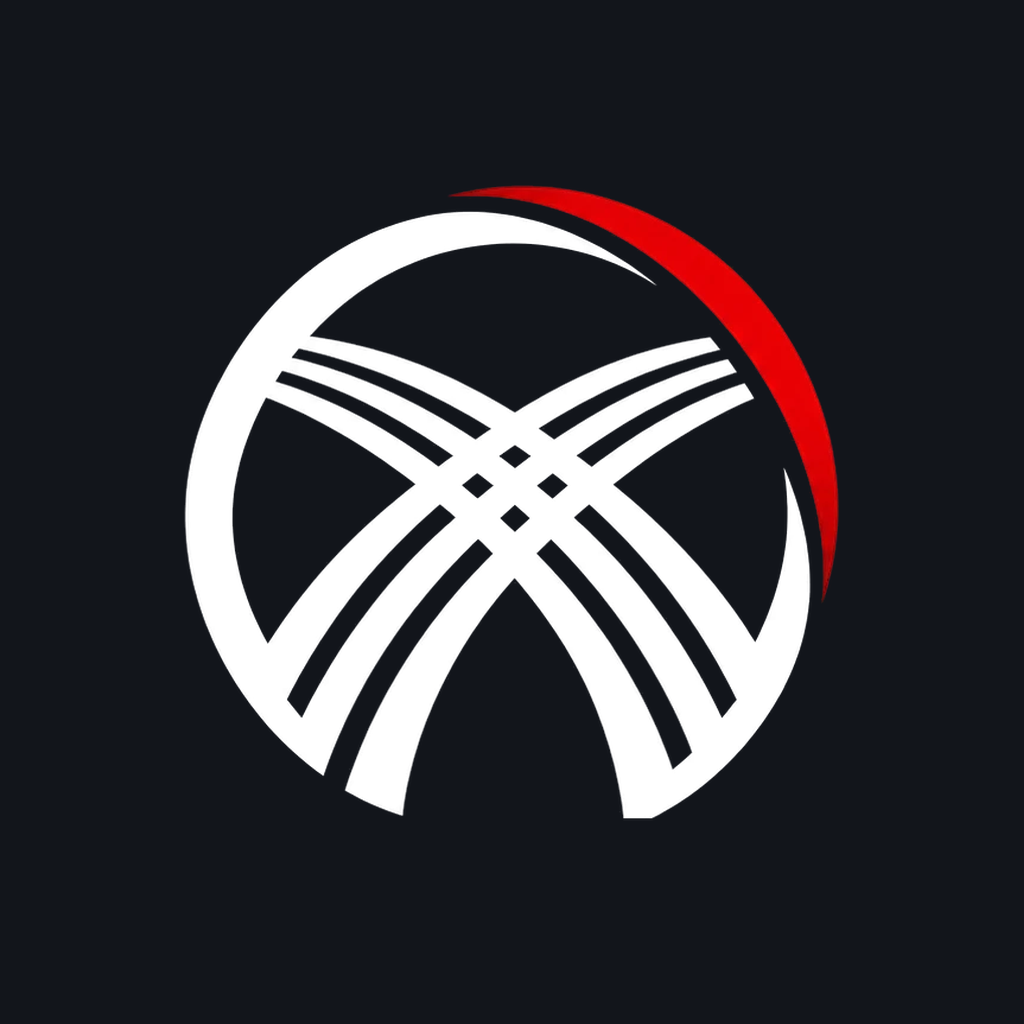
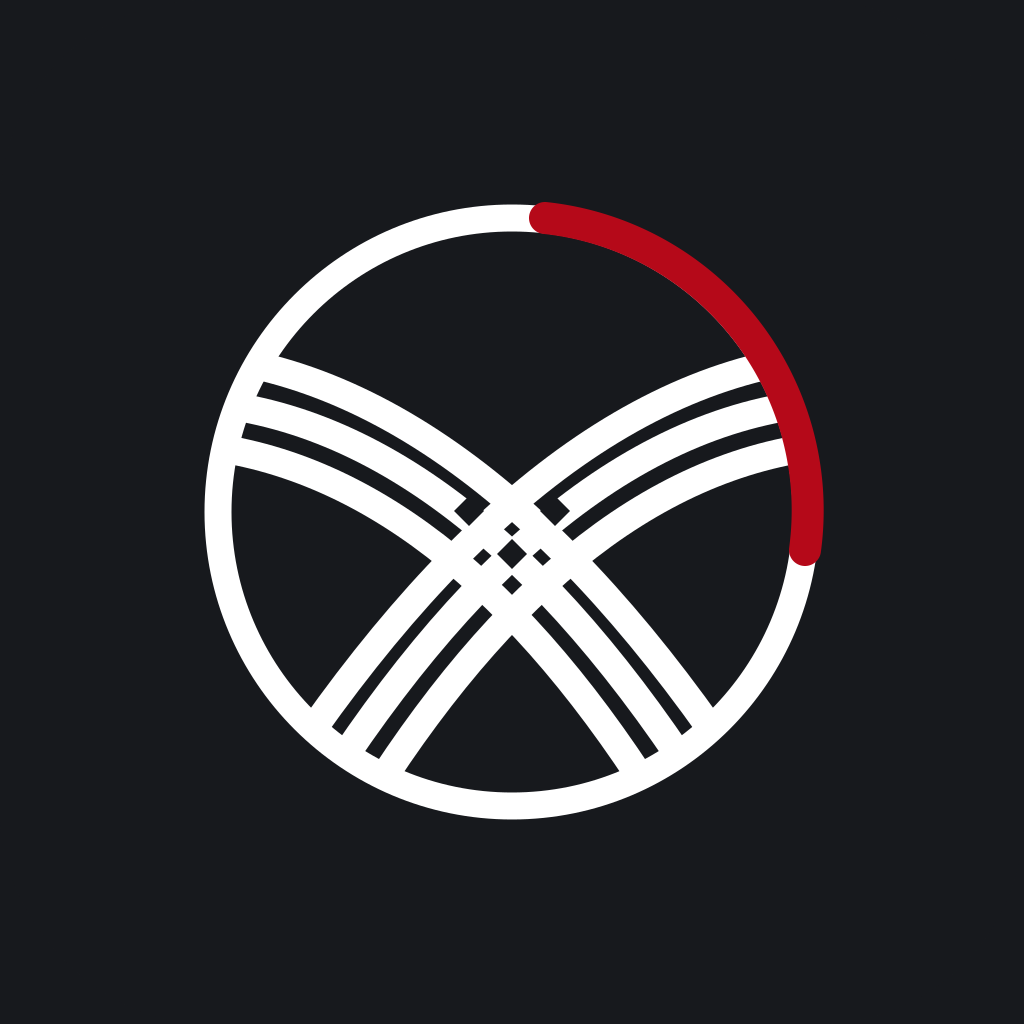
Логотип: новый знак из присланной иконки (полный круг, красная дуга)
- иконки приложения (PWA, maskable, iPhone 1024, favicon) из чистой иконки 1024×1024
- компактный знак для шапки (светлый и тёмный) вырезан из неё же
- полный логотип: новый знак + надпись ULA FACTORY
- img/app-icon-rounded.png — исходник со скруглёнными углами (для Instagram и соцсетей)

Changed region(s): [[0.1562, 0.1562, 0.8438, 0.8125]]

diff --git a/index.html b/index.html
@@ -10,10 +10,10 @@
   <meta http-equiv="Content-Security-Policy" content="default-src 'self'; script-src 'self' https://challenges.cloudflare.com; style-src 'self' 'unsafe-inline'; font-src 'self'; img-src 'self' data: blob: https://*.supabase.co; connect-src 'self' https://*.supabase.co wss://*.supabase.co https://open.er-api.com; frame-src 'self' https://challenges.cloudflare.com; worker-src 'self' blob:; object-src 'none'; base-uri 'self'; form-action 'self'">
   <!-- в ссылках есть секретные номера (?order=, ?xr=) — не передавать адрес страницы другим сайтам -->
   <meta name="referrer" content="no-referrer">
-  <script src="js/head.js?v=20261215a"></script>
+  <script src="js/head.js?v=20261215b"></script>
   <title>ULA Factory</title>
-  <link rel="icon" href="img/favicon.png?r=9" type="image/png" sizes="64x64">
-  <link rel="apple-touch-icon" href="img/apple-touch-icon.png?r=9">
+  <link rel="icon" href="img/favicon.png?r=10" type="image/png" sizes="64x64">
+  <link rel="apple-touch-icon" href="img/apple-touch-icon.png?r=10">
   <!-- Приложение на главном экране: открывается на весь экран, без строки браузера -->
   <link rel="manifest" href="manifest.webmanifest">
   <meta name="apple-mobile-web-app-capable" content="yes">
@@ -32,7 +32,7 @@
     #style-fallback div { max-width: 420px; }
     #style-fallback a { display: inline-block; padding: 10px 18px; border-radius: 10px; background: #1d1d1f; color: #fff; text-decoration: none; }
   </style>
-  <link rel="stylesheet" href="style.css?v=20261215a">
+  <link rel="stylesheet" href="style.css?v=20261215b">
 </head>
 <body>
   <div id="style-fallback" role="alert"><div><p>Не удалось загрузить оформление. Проверьте интернет и обновите страницу.</p><p>Could not load the page style. Check your connection and reload.</p><a href="">Обновить / Reload</a></div></div>
@@ -45,19 +45,19 @@
     <div class="intro-bg"></div>
     <div class="intro-glow"></div>
     <div class="intro-mark">
-      <img class="intro-logo bm-on-light" src="img/ula-mark.png?r=9" alt="" width="132" height="132">
-      <img class="intro-logo bm-on-dark" src="img/ula-mark-dark.png?r=9" alt="" width="132" height="132">
+      <img class="intro-logo bm-on-light" src="img/ula-mark.png?r=10" alt="" width="132" height="132">
+      <img class="intro-logo bm-on-dark" src="img/ula-mark-dark.png?r=10" alt="" width="132" height="132">
       <b class="intro-name"><span class="in-ula">ULA</span> <span class="in-f">FACTORY</span></b>
     </div>
   </div>
-  <script src="js/boot.js?v=20261215a"></script>
+  <script src="js/boot.js?v=20261215b"></script>
 
   <div id="toast" class="toast" role="status" aria-live="polite"></div>
 
   <!-- ============ ПОДСКАЗКА: НЕ ЗАПОЛНЕН config.js ============ -->
   <main id="view-config" class="center-screen hidden">
     <div class="panel">
-      <img class="logo-full bm-on-light" src="img/ula-logo.png?r=9" alt="ULA Factory" width="600" height="549"><img class="logo-full bm-on-dark" src="img/ula-logo-dark.png?r=9" alt="ULA Factory" width="600" height="549">
+      <img class="logo-full bm-on-light" src="img/ula-logo.png?r=10" alt="ULA Factory" width="600" height="577"><img class="logo-full bm-on-dark" src="img/ula-logo-dark.png?r=10" alt="ULA Factory" width="600" height="577">
       <h1 data-i18n="config_title"></h1>
       <p id="config-text" data-i18n="config_text"></p>
     </div>
@@ -67,7 +67,7 @@
   <main id="view-login" class="center-screen auth-screen hidden">
     <aside class="auth-aside" aria-hidden="true">
       <div class="auth-aside-in">
-        <img class="auth-mark" src="img/ula-mark-dark.png?r=9" alt="" width="64" height="64">
+        <img class="auth-mark" src="img/ula-mark-dark.png?r=10" alt="" width="64" height="64">
         <div class="auth-brand"><b>ULA</b> FACTORY</div>
         <p class="auth-tag" data-i18n="auth_tag"></p>
         <ul class="auth-points">
@@ -78,7 +78,7 @@
       </div>
     </aside>
     <form id="login-form" class="panel auth-panel" autocomplete="on">
-      <img class="logo-full bm-on-light" src="img/ula-logo.png?r=9" alt="ULA Factory" width="600" height="549"><img class="logo-full bm-on-dark" src="img/ula-logo-dark.png?r=9" alt="ULA Factory" width="600" height="549">
+      <img class="logo-full bm-on-light" src="img/ula-logo.png?r=10" alt="ULA Factory" width="600" height="577"><img class="logo-full bm-on-dark" src="img/ula-logo-dark.png?r=10" alt="ULA Factory" width="600" height="577">
       <h1 data-i18n="login_title"></h1>
       <p class="muted" data-i18n="login_hint"></p>
       <p id="login-team-note" class="team-note hidden" data-i18n="tm_login_note"></p>
@@ -122,7 +122,7 @@
   <main id="view-join" class="center-screen auth-screen hidden">
     <aside class="auth-aside" aria-hidden="true">
       <div class="auth-aside-in">
-        <img class="auth-mark" src="img/ula-mark-dark.png?r=9" alt="" width="64" height="64">
+        <img class="auth-mark" src="img/ula-mark-dark.png?r=10" alt="" width="64" height="64">
         <div class="auth-brand"><b>ULA</b> FACTORY</div>
         <p class="auth-tag" data-i18n="auth_tag"></p>
         <ul class="auth-points">
@@ -133,7 +133,7 @@
       </div>
     </aside>
     <div class="panel auth-panel">
-      <img class="logo-full bm-on-light" src="img/ula-logo.png?r=9" alt="ULA Factory" width="600" height="549"><img class="logo-full bm-on-dark" src="img/ula-logo-dark.png?r=9" alt="ULA Factory" width="600" height="549">
+      <img class="logo-full bm-on-light" src="img/ula-logo.png?r=10" alt="ULA Factory" width="600" height="577"><img class="logo-full bm-on-dark" src="img/ula-logo-dark.png?r=10" alt="ULA Factory" width="600" height="577">
 
       <!-- проверяем приглашение -->
       <p id="join-checking" class="muted" data-i18n="loading"></p>
@@ -197,7 +197,7 @@
   <div id="view-admin" class="hidden">
     <header class="topbar">
       <div class="topbar-inner">
-        <div class="brand"><img class="brand-mark bm-on-light" src="img/ula-mark.png?r=9" alt="" width="36" height="36"><img class="brand-mark bm-on-dark" src="img/ula-mark-dark.png?r=9" alt="" width="36" height="36"><span class="brand-text"><span class="brand-name"><b>ULA</b> <span>FACTORY</span></span></span></div>
+        <div class="brand"><img class="brand-mark bm-on-light" src="img/ula-mark.png?r=10" alt="" width="36" height="36"><img class="brand-mark bm-on-dark" src="img/ula-mark-dark.png?r=10" alt="" width="36" height="36"><span class="brand-text"><span class="brand-name"><b>ULA</b> <span>FACTORY</span></span></span></div>
         <div class="section-menu-wrap">
           <button id="section-menu-btn" class="section-menu-btn" type="button" aria-expanded="false" aria-controls="section-menu" data-i18n-title="nav_menu">
             <span id="section-menu-ico" class="section-menu-ico"></span>
@@ -859,7 +859,7 @@
   <div id="view-client" class="hidden">
     <header class="topbar">
       <div class="topbar-inner">
-        <div class="brand"><img class="brand-mark bm-on-light" src="img/ula-mark.png?r=9" alt="" width="36" height="36"><img class="brand-mark bm-on-dark" src="img/ula-mark-dark.png?r=9" alt="" width="36" height="36"><span class="brand-name"><b>ULA</b> <span>FACTORY</span></span></div>
+        <div class="brand"><img class="brand-mark bm-on-light" src="img/ula-mark.png?r=10" alt="" width="36" height="36"><img class="brand-mark bm-on-dark" src="img/ula-mark-dark.png?r=10" alt="" width="36" height="36"><span class="brand-name"><b>ULA</b> <span>FACTORY</span></span></div>
         <div class="client-actions">
           <button id="client-refresh" class="icon-btn gear-btn" type="button" data-i18n-title="refresh">
             <svg viewBox="0 0 24 24" width="22" height="22" aria-hidden="true" fill="none" stroke="currentColor" stroke-width="2" stroke-linecap="round" stroke-linejoin="round"><path d="M21 12a9 9 0 1 1-2.64-6.36"/><path d="M21 3v6h-6"/></svg>
@@ -880,7 +880,7 @@
   <div id="view-shop" class="hidden">
     <header class="topbar">
       <div class="topbar-inner">
-        <div class="brand"><img class="brand-mark bm-on-light" src="img/ula-mark.png?r=9" alt="" width="36" height="36"><img class="brand-mark bm-on-dark" src="img/ula-mark-dark.png?r=9" alt="" width="36" height="36"><span class="brand-name"><b>ULA</b> <span>FACTORY</span></span></div>
+        <div class="brand"><img class="brand-mark bm-on-light" src="img/ula-mark.png?r=10" alt="" width="36" height="36"><img class="brand-mark bm-on-dark" src="img/ula-mark-dark.png?r=10" alt="" width="36" height="36"><span class="brand-name"><b>ULA</b> <span>FACTORY</span></span></div>
         <div class="client-actions">
           <div class="lang-switch" role="group" aria-label="Language">
             <button type="button" data-lang="ru" title="Русский">RU</button>
@@ -896,7 +896,7 @@
   <div id="view-request" class="hidden">
     <header class="topbar">
       <div class="topbar-inner">
-        <div class="brand"><img class="brand-mark bm-on-light" src="img/ula-mark.png?r=9" alt="" width="36" height="36"><img class="brand-mark bm-on-dark" src="img/ula-mark-dark.png?r=9" alt="" width="36" height="36"><span class="brand-name"><b>ULA</b> <span>FACTORY</span></span></div>
+        <div class="brand"><img class="brand-mark bm-on-light" src="img/ula-mark.png?r=10" alt="" width="36" height="36"><img class="brand-mark bm-on-dark" src="img/ula-mark-dark.png?r=10" alt="" width="36" height="36"><span class="brand-name"><b>ULA</b> <span>FACTORY</span></span></div>
         <div class="client-actions">
           <div class="lang-switch" role="group" aria-label="Language">
             <button type="button" data-lang="ru" title="Русский">RU</button>
@@ -1646,7 +1646,7 @@
         <button class="icon-btn" type="button" data-close aria-label="Close">×</button>
       </div>
       <div class="modal-body">
-        <div class="pwa-app"><img src="img/icon-192.png?r=9" alt="" width="56" height="56"><div><b>ULA Factory</b><span data-i18n="pwa_sub"></span></div></div>
+        <div class="pwa-app"><img src="img/icon-192.png?r=10" alt="" width="56" height="56"><div><b>ULA Factory</b><span data-i18n="pwa_sub"></span></div></div>
         <ol id="pwa-steps" class="pwa-steps"></ol>
         <p class="fine-print" data-i18n="pwa_note"></p>
         <button class="btn btn-primary btn-block" type="button" data-close data-i18n="pwa_ok"></button>
@@ -1988,54 +1988,54 @@
 
   <!-- ?v=… — номер версии. При каждом обновлении сайта меняйте его (например на дату),
        чтобы браузеры сразу брали новые файлы, а не старые из кэша. -->
-  <script src="config.js?v=20261215a"></script>
-  <script src="js/errors.js?v=20261215a"></script>
-  <script src="i18n.js?v=20261215a"></script>
+  <script src="config.js?v=20261215b"></script>
+  <script src="js/errors.js?v=20261215b"></script>
+  <script src="i18n.js?v=20261215b"></script>
   <script src="supabase.js"></script>
-  <script src="app.js?v=20261215a"></script>
+  <script src="app.js?v=20261215b"></script>
   <!-- части сайта в отдельных файлах (после app.js) -->
-  <script src="js/fx.js?v=20261215a"></script>
-  <script src="js/alerts.js?v=20261215a"></script>
-  <script src="js/device.js?v=20261215a"></script>
-  <script src="js/adminedit.js?v=20261215a"></script>
-  <script src="js/live.js?v=20261215a"></script>
-  <script src="js/support.js?v=20261215a"></script>
-  <script src="js/notify.js?v=20261215a"></script>
-  <script src="js/icons.js?v=20261215a"></script>
-  <script src="js/xlsx.js?v=20261215a"></script>
-  <script src="js/analytics.js?v=20261215a"></script>
-  <script src="js/inbox.js?v=20261215a"></script>
-  <script src="js/business.js?v=20261215a"></script>
-  <script src="js/bulk.js?v=20261215a"></script>
-  <script src="js/onboarding.js?v=20261215a"></script>
-  <script src="js/tgws.js?v=20261215a"></script>
-  <script src="js/notifyq.js?v=20261215a"></script>
-  <script src="js/deadlines.js?v=20261215a"></script>
-  <script src="js/tracking.js?v=20261215a"></script>
-  <script src="js/daily.js?v=20261215a"></script>
-  <script src="js/mfa.js?v=20261215a"></script>
-  <script src="js/passkey.js?v=20261215a"></script>
-  <script src="js/captcha.js?v=20261215a"></script>
-  <script src="js/tour.js?v=20261215a"></script>
-  <script src="js/recovery.js?v=20261215a"></script>
-  <script src="js/shop.js?v=20261215a"></script>
-  <script src="js/broadcast.js?v=20261215a"></script>
-  <script src="js/tools.js?v=20261215a"></script>
-  <script src="js/expenses.js?v=20261215a"></script>
-  <script src="js/exchange.js?v=20261215a"></script>
-  <script src="js/board.js?v=20261215a"></script>
-  <script src="js/import.js?v=20261215a"></script>
-  <script src="js/requests.js?v=20261215a"></script>
-  <script src="js/team.js?v=20261215a"></script>
-  <script src="js/shipments.js?v=20261215a"></script>
-  <script src="js/report.js?v=20261215a"></script>
-  <script src="js/debts.js?v=20261215a"></script>
-  <script src="js/wallet.js?v=20261215a"></script>
-  <script src="js/clientlinks.js?v=20261215a"></script>
-  <script src="js/profile.js?v=20261215a"></script>
-  <script src="js/formsteps.js?v=20261215a"></script>
-  <script src="js/quote.js?v=20261215a"></script>
-  <script src="js/client.js?v=20261215a"></script>
-  <script src="js/pwa.js?v=20261215a"></script>
+  <script src="js/fx.js?v=20261215b"></script>
+  <script src="js/alerts.js?v=20261215b"></script>
+  <script src="js/device.js?v=20261215b"></script>
+  <script src="js/adminedit.js?v=20261215b"></script>
+  <script src="js/live.js?v=20261215b"></script>
+  <script src="js/support.js?v=20261215b"></script>
+  <script src="js/notify.js?v=20261215b"></script>
+  <script src="js/icons.js?v=20261215b"></script>
+  <script src="js/xlsx.js?v=20261215b"></script>
+  <script src="js/analytics.js?v=20261215b"></script>
+  <script src="js/inbox.js?v=20261215b"></script>
+  <script src="js/business.js?v=20261215b"></script>
+  <script src="js/bulk.js?v=20261215b"></script>
+  <script src="js/onboarding.js?v=20261215b"></script>
+  <script src="js/tgws.js?v=20261215b"></script>
+  <script src="js/notifyq.js?v=20261215b"></script>
+  <script src="js/deadlines.js?v=20261215b"></script>
+  <script src="js/tracking.js?v=20261215b"></script>
+  <script src="js/daily.js?v=20261215b"></script>
+  <script src="js/mfa.js?v=20261215b"></script>
+  <script src="js/passkey.js?v=20261215b"></script>
+  <script src="js/captcha.js?v=20261215b"></script>
+  <script src="js/tour.js?v=20261215b"></script>
+  <script src="js/recovery.js?v=20261215b"></script>
+  <script src="js/shop.js?v=20261215b"></script>
+  <script src="js/broadcast.js?v=20261215b"></script>
+  <script src="js/tools.js?v=20261215b"></script>
+  <script src="js/expenses.js?v=20261215b"></script>
+  <script src="js/exchange.js?v=20261215b"></script>
+  <script src="js/board.js?v=20261215b"></script>
+  <script src="js/import.js?v=20261215b"></script>
+  <script src="js/requests.js?v=20261215b"></script>
+  <script src="js/team.js?v=20261215b"></script>
+  <script src="js/shipments.js?v=20261215b"></script>
+  <script src="js/report.js?v=20261215b"></script>
+  <script src="js/debts.js?v=20261215b"></script>
+  <script src="js/wallet.js?v=20261215b"></script>
+  <script src="js/clientlinks.js?v=20261215b"></script>
+  <script src="js/profile.js?v=20261215b"></script>
+  <script src="js/formsteps.js?v=20261215b"></script>
+  <script src="js/quote.js?v=20261215b"></script>
+  <script src="js/client.js?v=20261215b"></script>
+  <script src="js/pwa.js?v=20261215b"></script>
 </body>
 </html>

diff --git a/privacy.html b/privacy.html
@@ -6,9 +6,9 @@
   <meta http-equiv="Content-Security-Policy" content="default-src 'self'; style-src 'self' 'unsafe-inline'; img-src 'self' data:; object-src 'none'; base-uri 'self'; form-action 'none'">
   <meta name="referrer" content="no-referrer">
   <title>ULA Factory — Политика конфиденциальности / Privacy Policy</title>
-  <script src="js/head.js?v=20261215a"></script>
-  <link rel="icon" href="img/favicon.png?r=9" type="image/png" sizes="64x64">
-  <link rel="stylesheet" href="style.css?v=20261215a">
+  <script src="js/head.js?v=20261215b"></script>
+  <link rel="icon" href="img/favicon.png?r=10" type="image/png" sizes="64x64">
+  <link rel="stylesheet" href="style.css?v=20261215b">
   <style>
     .doc { max-width: 760px; margin: 0 auto; padding: 28px 18px 60px; line-height: 1.6; }
     .doc h1 { font-size: 24px; margin: 18px 0 6px; }
@@ -21,7 +21,7 @@
 </head>
 <body>
   <main class="doc">
-    <a class="brand" href="./"><img class="brand-mark bm-on-light" src="img/ula-mark.png?r=9" alt="" width="36" height="36"><img class="brand-mark bm-on-dark" src="img/ula-mark-dark.png?r=9" alt="" width="36" height="36"><span class="brand-name"><b>ULA</b> <span>FACTORY</span></span></a>
+    <a class="brand" href="./"><img class="brand-mark bm-on-light" src="img/ula-mark.png?r=10" alt="" width="36" height="36"><img class="brand-mark bm-on-dark" src="img/ula-mark-dark.png?r=10" alt="" width="36" height="36"><span class="brand-name"><b>ULA</b> <span>FACTORY</span></span></a>
 
     <!-- ===================== РУССКИЙ ===================== -->
     <h1>Политика конфиденциальности</h1>

diff --git a/terms.html b/terms.html
@@ -6,9 +6,9 @@
   <meta http-equiv="Content-Security-Policy" content="default-src 'self'; style-src 'self' 'unsafe-inline'; img-src 'self' data:; object-src 'none'; base-uri 'self'; form-action 'none'">
   <meta name="referrer" content="no-referrer">
   <title>ULA Factory — Условия использования / Terms of Service</title>
-  <script src="js/head.js?v=20261215a"></script>
-  <link rel="icon" href="img/favicon.png?r=9" type="image/png" sizes="64x64">
-  <link rel="stylesheet" href="style.css?v=20261215a">
+  <script src="js/head.js?v=20261215b"></script>
+  <link rel="icon" href="img/favicon.png?r=10" type="image/png" sizes="64x64">
+  <link rel="stylesheet" href="style.css?v=20261215b">
   <style>
     .doc { max-width: 760px; margin: 0 auto; padding: 28px 18px 60px; line-height: 1.6; }
     .doc h1 { font-size: 24px; margin: 18px 0 6px; }
@@ -20,7 +20,7 @@
 </head>
 <body>
   <main class="doc">
-    <a class="brand" href="./"><img class="brand-mark bm-on-light" src="img/ula-mark.png?r=9" alt="" width="36" height="36"><img class="brand-mark bm-on-dark" src="img/ula-mark-dark.png?r=9" alt="" width="36" height="36"><span class="brand-name"><b>ULA</b> <span>FACTORY</span></span></a>
+    <a class="brand" href="./"><img class="brand-mark bm-on-light" src="img/ula-mark.png?r=10" alt="" width="36" height="36"><img class="brand-mark bm-on-dark" src="img/ula-mark-dark.png?r=10" alt="" width="36" height="36"><span class="brand-name"><b>ULA</b> <span>FACTORY</span></span></a>
 
     <!-- ===================== РУССКИЙ ===================== -->
     <h1>Условия использования</h1>

diff --git a/js/support.js b/js/support.js
@@ -31,7 +31,7 @@
     urls: {},          // подписанные ссылки на файлы: путь → { url, until }
     noFiles: false     // файл 40 ещё не запущен — скрепку не показываем
   };
-  var BRAND = '<img src="img/icon-192.png?r=9" alt="">';   // знак ULA Factory (тёмная плитка)
+  var BRAND = '<img src="img/icon-192.png?r=10" alt="">';   // знак ULA Factory (тёмная плитка)
   var BUCKET = "support-files", MAX_FILES = 6, MAX_SIZE = 20 * 1024 * 1024;
   var OK_TYPES = /^(image\/(jpeg|png|webp|gif|heic|heif)|video\/(mp4|quicktime|webm)|application\/pdf|text\/(plain|csv)|application\/(msword|vnd\.openxmlformats-officedocument\.(wordprocessingml\.document|spreadsheetml\.sheet)|vnd\.ms-excel))$/;
 

diff --git a/app.js b/app.js
@@ -347,7 +347,7 @@
   }
 
   // ---------- Запуск ----------
-  var APP_VERSION = "20261215a"; // та же версия, что в ?v= у файлов
+  var APP_VERSION = "20261215b"; // та же версия, что в ?v= у файлов
   var started = false;
   document.addEventListener("DOMContentLoaded", init);
 
